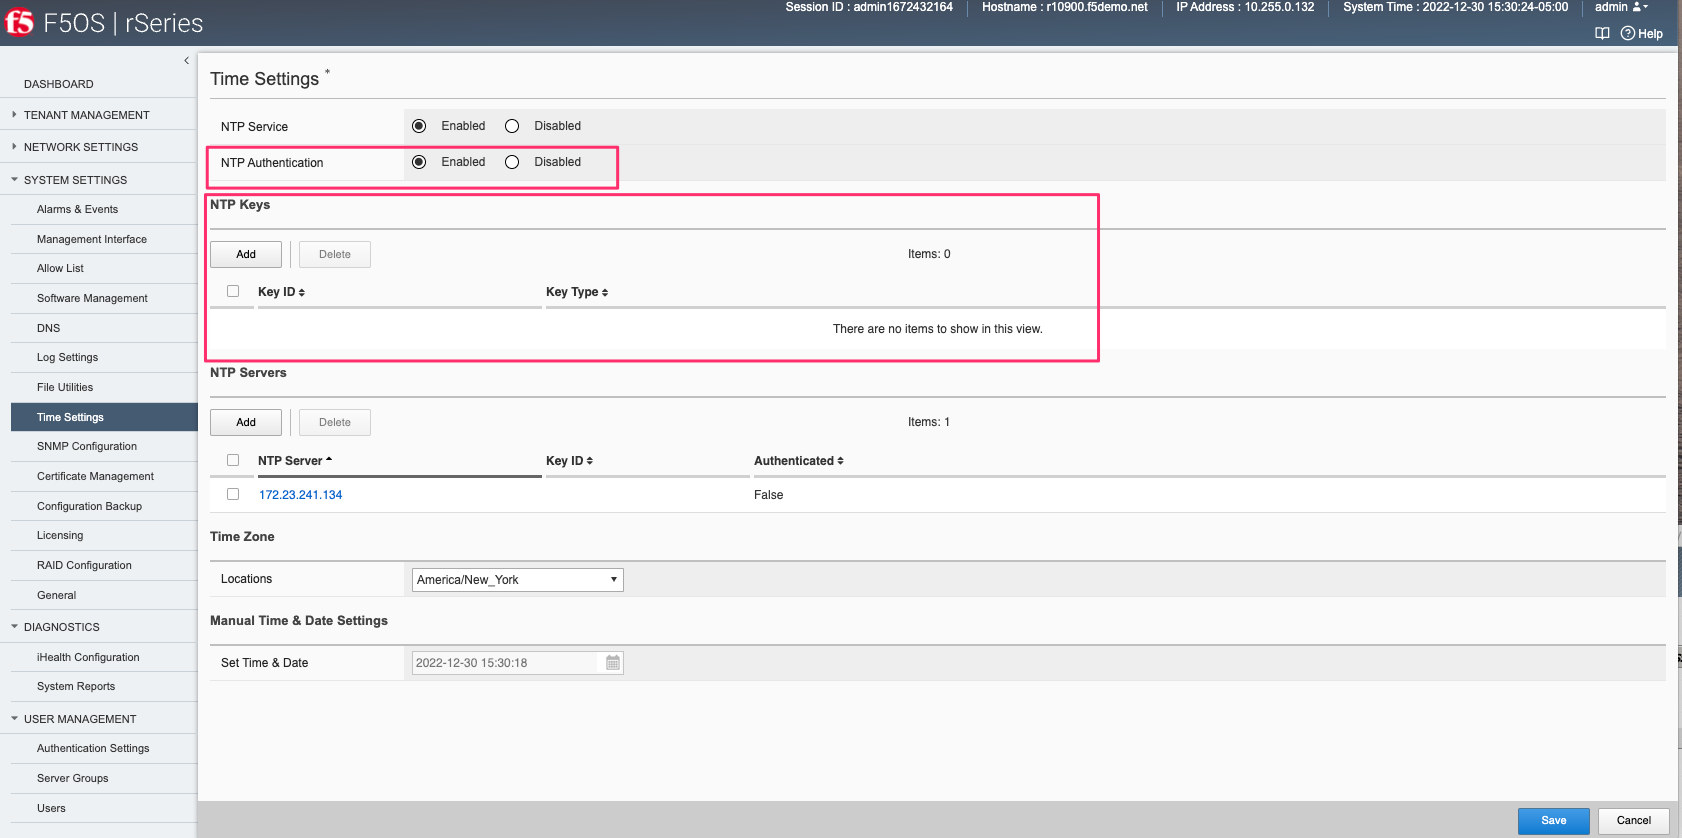
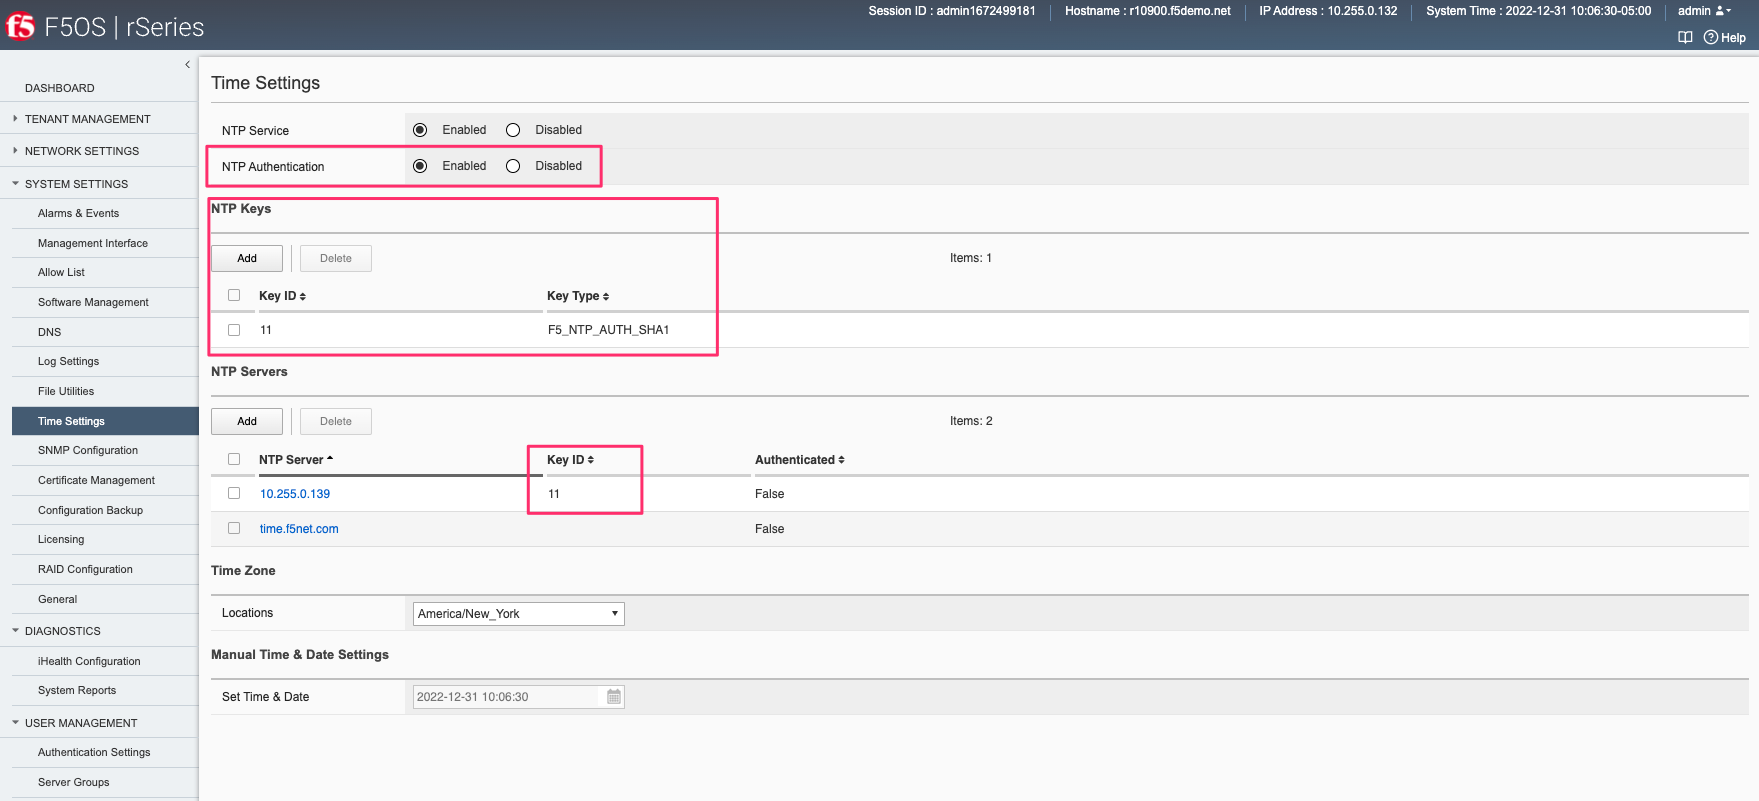
ntp

diff --git a/docs/rseries_security.rst b/docs/rseries_security.rst
@@ -946,22 +946,37 @@ F5OS-A 1.2.0 added support for SNMPv3. Earlier version of F5OS-A only supported 
 NTP Authentication
 ==================
 
-NTP Authentication can be enabled to provide a secure communication channel for Network Time Protocol queries from the F5OS platform layer.
+NTP Authentication can be enabled to provide a secure communication channel for Network Time Protocol queries from the F5OS platform layer. In order to utilize NTP authentication you must first enable NTP authntication and then add keys in order to secure communication to your NTP servers.
 
 Enabling NTP Authentication via CLI
 -----------------------------------
+
+To enable NTP authentication use the **system ntp config enable-ntp-auth true** command in rthe CLI, and then commit the change.
 
 .. code-block:: bash
 
     r10900(config)# system ntp config enable-ntp-auth true 
     r10900(config)# commit
-    % No modifications to commit.
+    Commit complete.
     r10900(config)# 
 
+Next you'll need to add keys for NTP Authentication
+
+.. code-block:: bash
+
+    r10900(config)# system ntp ntp-keys ntp-key 11 config key-id 11 key-type F5_NTP_AUTH_SHA1 key-value HEX:E27611234BB5E7CDFC8A8ACE55B567FC5CA7C890
+
+The key ID, key type, and key value on this client system must match the server exactly. Lastly, you'll need to associate the key with an NTP server using the configured key-id above.
+
+.. code-block:: bash
+
+    r10900(config)# system ntp servers server 10.255.0.139
+    r10900(config-server-10.255.0.139)# config key-id 11
 
 Enabling NTP Authentication via webUI
 -------------------------------------
 
+To enable NTP authentication use the
 
 .. image:: images/rseries_security/ntpauth1.png
   :align: center
@@ -970,9 +985,13 @@ Enabling NTP Authentication via webUI
 Enabling NTP Authentication via API
 -----------------------------------
 
+NTP authentication can also be set and viewed using the F5OS API. To view the current NTP setting use the following API call.
+
 .. code-block:: bash
 
     GET https://{{rseries_appliance1_ip}}:8888/restconf/data/openconfig-system:system/ntp
+
+The output will display the current ntp configuration state including authentication and keys.
 
 .. code-block:: json
 
@@ -980,14 +999,53 @@ Enabling NTP Authentication via API
         "openconfig-system:ntp": {
             "config": {
                 "enabled": true,
-                "enable-ntp-auth": false
+                "enable-ntp-auth": true
             },
             "state": {
                 "enabled": true,
-                "enable-ntp-auth": false
+                "enable-ntp-auth": true
+            },
+            "ntp-keys": {
+                "ntp-key": [
+                    {
+                        "key-id": 11,
+                        "config": {
+                            "key-id": 11,
+                            "key-type": "f5-system-ntp:F5_NTP_AUTH_SHA1",
+                            "key-value": "$8$IIACWGpGPUYzian06FdH5PpH/sbSNQmre6DVsBZ2zxCv6S5vM3cXUkn8NwD0BABSeT3Drnmm\npLCQibKafAFFPg=="
+                        },
+                        "state": {
+                            "key-id": 11,
+                            "key-type": "F5_NTP_AUTH_SHA1",
+                            "key-value": "$8$IIACWGpGPUYzian06FdH5PpH/sbSNQmre6DVsBZ2zxCv6S5vM3cXUkn8NwD0BABSeT3Drnmm\npLCQibKafAFFPg=="
+                        }
+                    }
+                ]
             },
             "servers": {
                 "server": [
+                    {
+                        "address": "10.255.0.139",
+                        "config": {
+                            "address": "10.255.0.139",
+                            "port": 123,
+                            "version": 4,
+                            "association-type": "SERVER",
+                            "iburst": false,
+                            "prefer": false,
+                            "f5-openconfig-system-ntp:key-id": 11
+                        },
+                        "state": {
+                            "address": "10.255.0.139",
+                            "port": 123,
+                            "version": 4,
+                            "association-type": "SERVER",
+                            "iburst": false,
+                            "prefer": false,
+                            "f5-openconfig-system-ntp:key-id": 11,
+                            "f5-openconfig-system-ntp:authenticated": false
+                        }
+                    },
                     {
                         "address": "time.f5net.com",
                         "config": {
@@ -999,17 +1057,12 @@ Enabling NTP Authentication via API
                             "prefer": false
                         },
                         "state": {
-                            "address": "172.23.241.134",
+                            "address": "time.f5net.com",
                             "port": 123,
                             "version": 4,
                             "association-type": "SERVER",
                             "iburst": false,
                             "prefer": false,
-                            "stratum": 2,
-                            "root-delay": 30,
-                            "root-dispersion": "37",
-                            "offset": "0",
-                            "poll-interval": 8,
                             "f5-openconfig-system-ntp:authenticated": false
                         }
                     }
@@ -1018,10 +1071,52 @@ Enabling NTP Authentication via API
         }
     }
 
+To enable NTP authentication via the F5OS API use the following API call.
+
 .. code-block:: bash
 
+    PATCH https://{{rseries_appliance1_ip}}:8888/restconf/data
 
+In the body of the API call you can enable NTP authentication, add keys, and associate those keys with an NTP server.
 
+.. code-block:: json
+
+    {
+        "openconfig-system:ntp": {
+            "config": {
+                "enabled": true,
+                "enable-ntp-auth": true
+            },
+            "ntp-keys": {
+                "ntp-key": [
+                    {
+                        "key-id": 11,
+                        "config": {
+                            "key-id": 11,
+                            "key-type": "f5-system-ntp:F5_NTP_AUTH_SHA1",
+                            "key-value": "$8$IIACWGpGPUYzian06FdH5PpH/sbSNQmre6DVsBZ2zxCv6S5vM3cXUkn8NwD0BABSeT3Drnmm\npLCQibKafAFFPg=="
+                        }
+                    }
+                ]
+            },
+            "servers": {
+                "server": [
+                    {
+                        "address": "10.255.0.139",
+                        "config": {
+                            "address": "10.255.0.139",
+                            "port": 123,
+                            "version": 4,
+                            "association-type": "SERVER",
+                            "iburst": false,
+                            "prefer": false,
+                            "f5-openconfig-system-ntp:key-id": 11
+                        }
+                    }
+                ]
+            }
+        }
+    }
 
 Disable IPv6
 ============
@@ -1194,8 +1289,6 @@ Then, you can control the level of events that will be logged to the local audit
     !
 
 The formatting of audit logs provide the date/time in UTC, the account and ID who performed the action, the type of event, the asset affected, the type of access, and success or failure of the request. Separate log entries provide details on user access (login/login failures) information such as IP address and port and wether access was granted or not.
-
-
 
 
 Viewing Audit Logs via F5OS CLI
